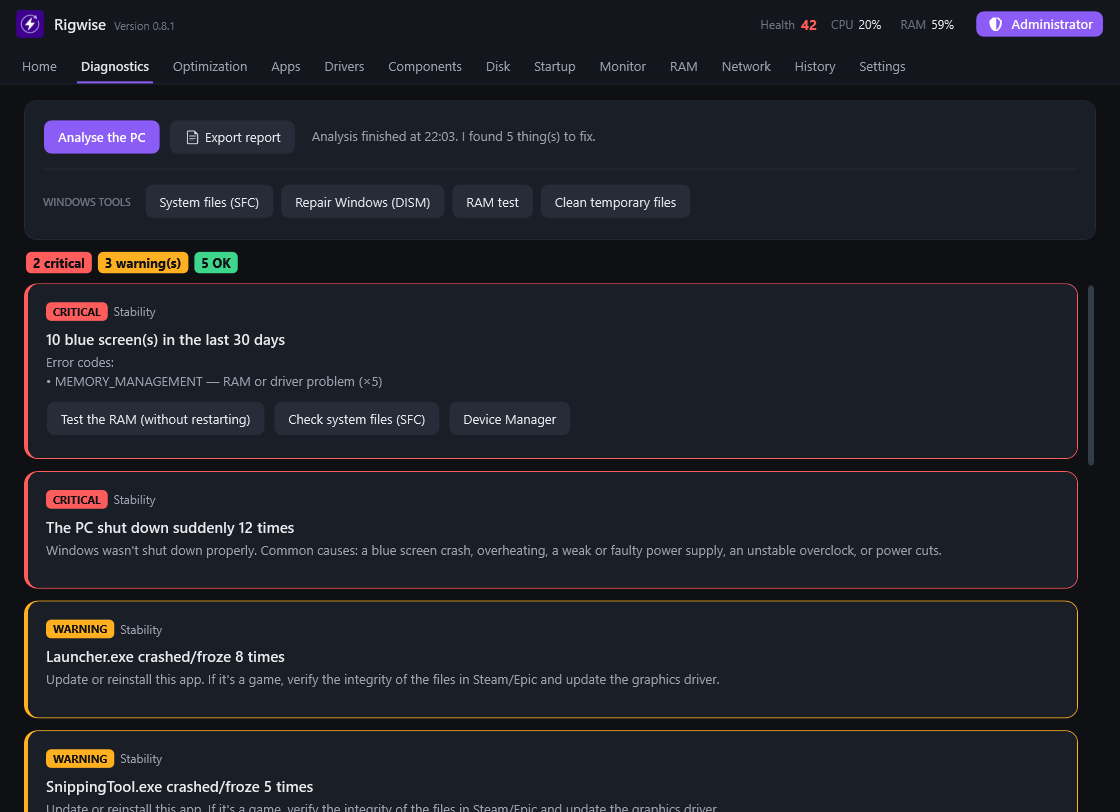
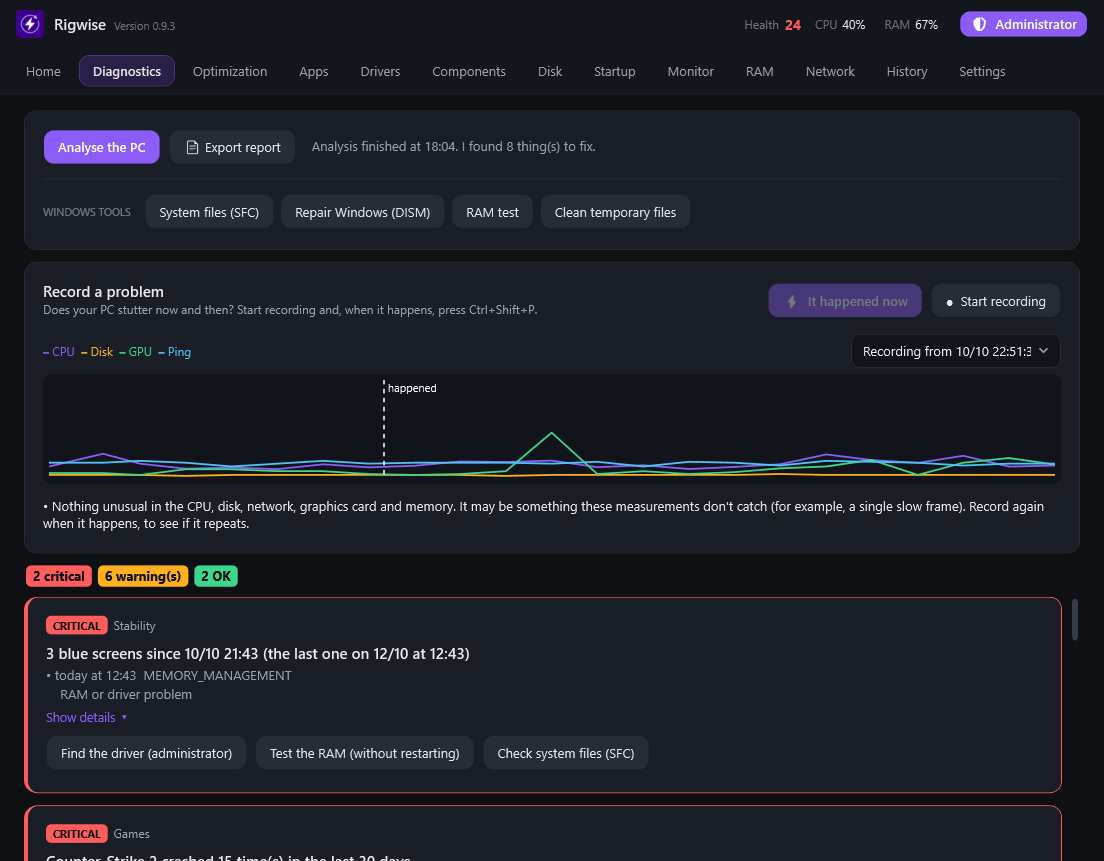
0.9.3, licença MIT e captura nova no README

diff --git a/README.md b/README.md
@@ -10,6 +10,7 @@
 [![Downloads](https://img.shields.io/github/downloads/DinisIvanetsD/rigwise/total?color=8b5cf6)](https://github.com/DinisIvanetsD/rigwise/releases)
 ![Windows 10/11](https://img.shields.io/badge/Windows-10%20%7C%2011-8b5cf6)
 ![Free](https://img.shields.io/badge/price-free-3fb950)
+[![License: MIT](https://img.shields.io/badge/license-MIT-8b5cf6)](LICENSE)
 
 ### [⬇ Download](https://github.com/DinisIvanetsD/rigwise/releases/latest/download/PCOptimizer-win-x64.zip) · [Website](https://rigwise-vercel.vercel.app)
 

diff --git a/CHANGELOG.md b/CHANGELOG.md
@@ -1,5 +1,9 @@
 # Novidades
 
+## 0.9.3
+- Corrige um erro ao abrir a janela pelo ícone da barra de tarefas depois de ela ter fechado.
+- Código-fonte público em github.com/DinisIvanetsD/rigwise, com licença MIT.
+
 ## 0.9.2
 - **Ecrãs azuis** (Diagnóstico): o título diz a hora do crash ("hoje às 19:02") e o código com uma explicação
   (ex.: PFN_LIST_CORRUPT = quase sempre RAM instável). Aviso na hora, logo que o PC volta a arrancar.
